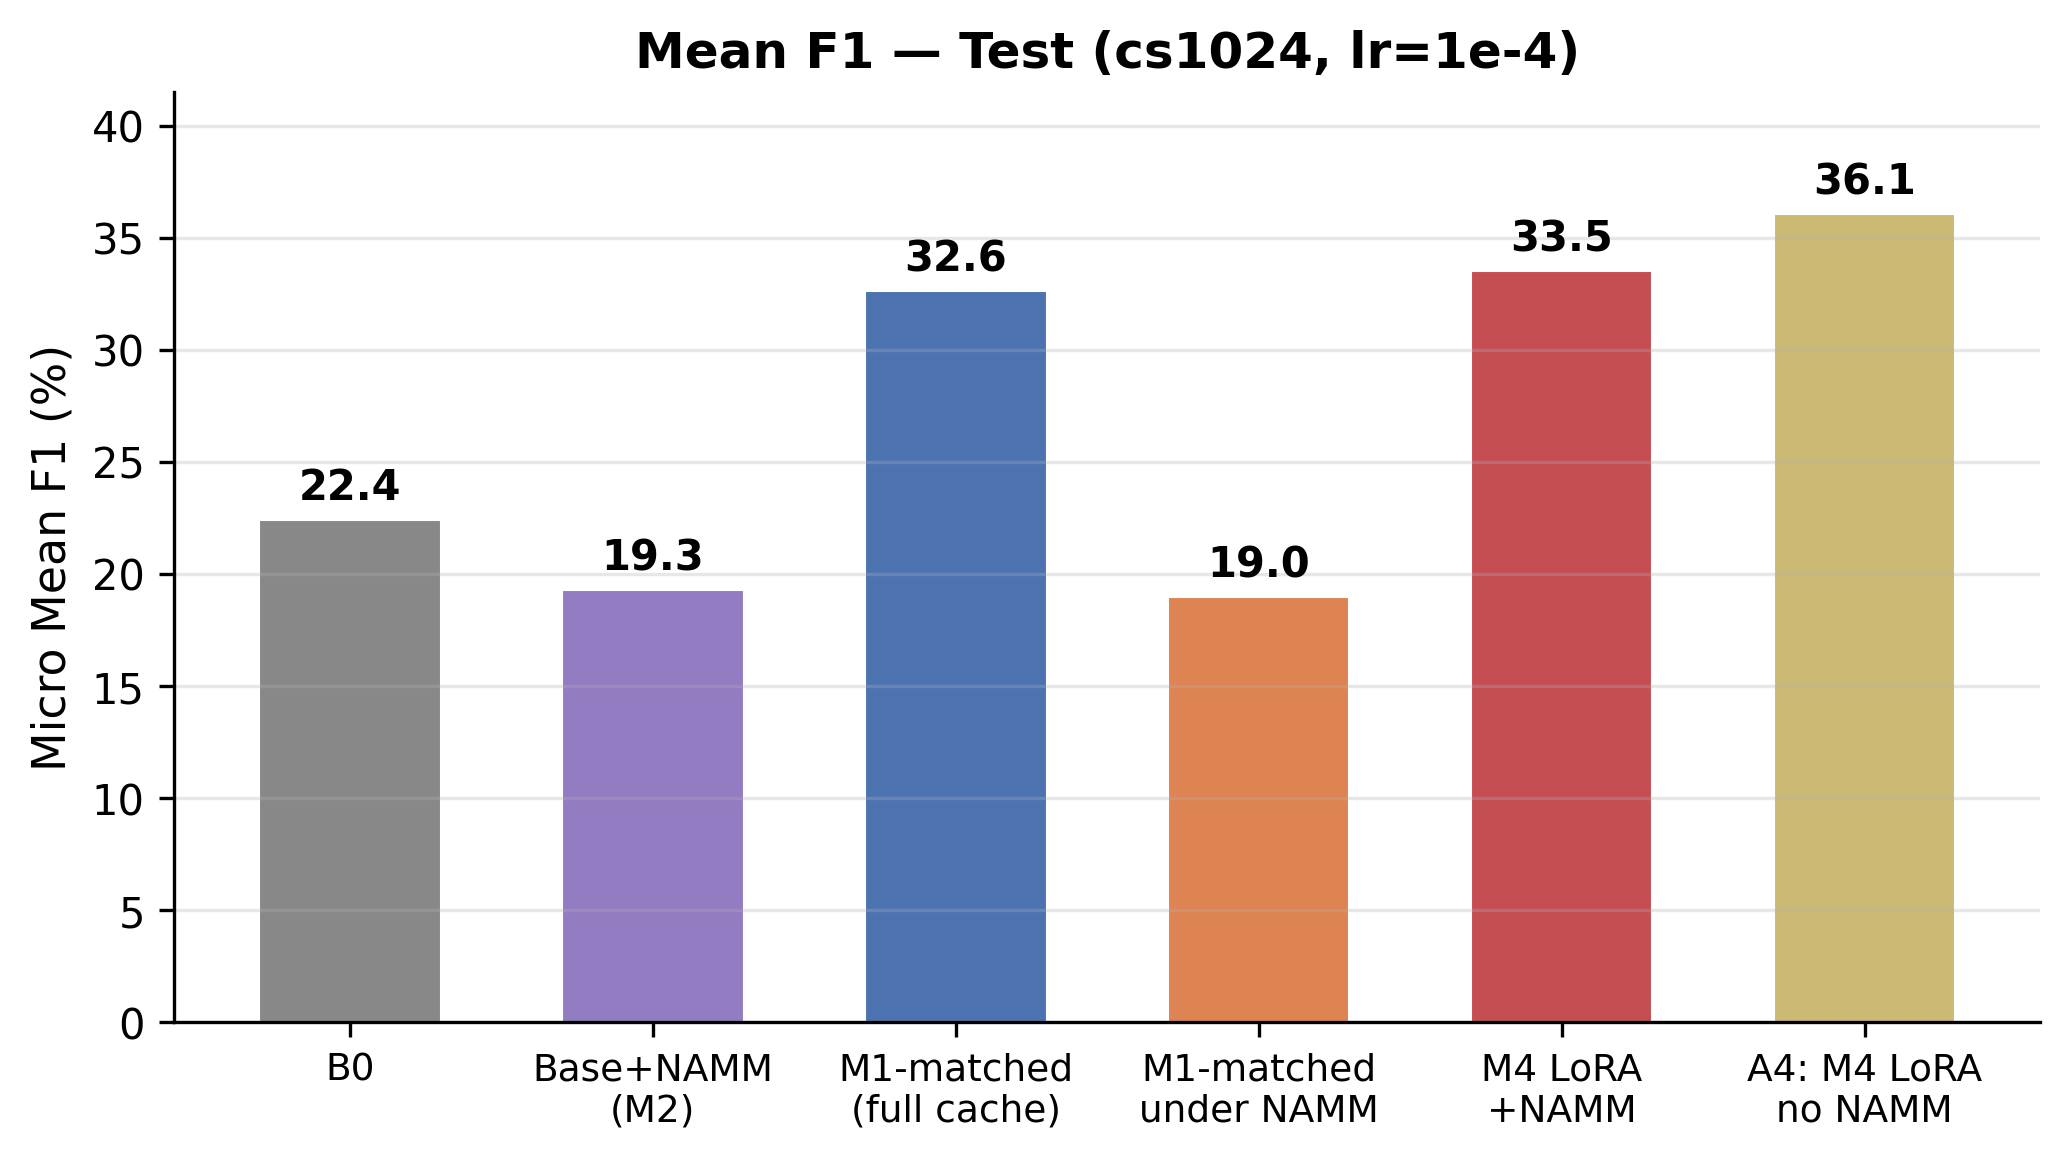
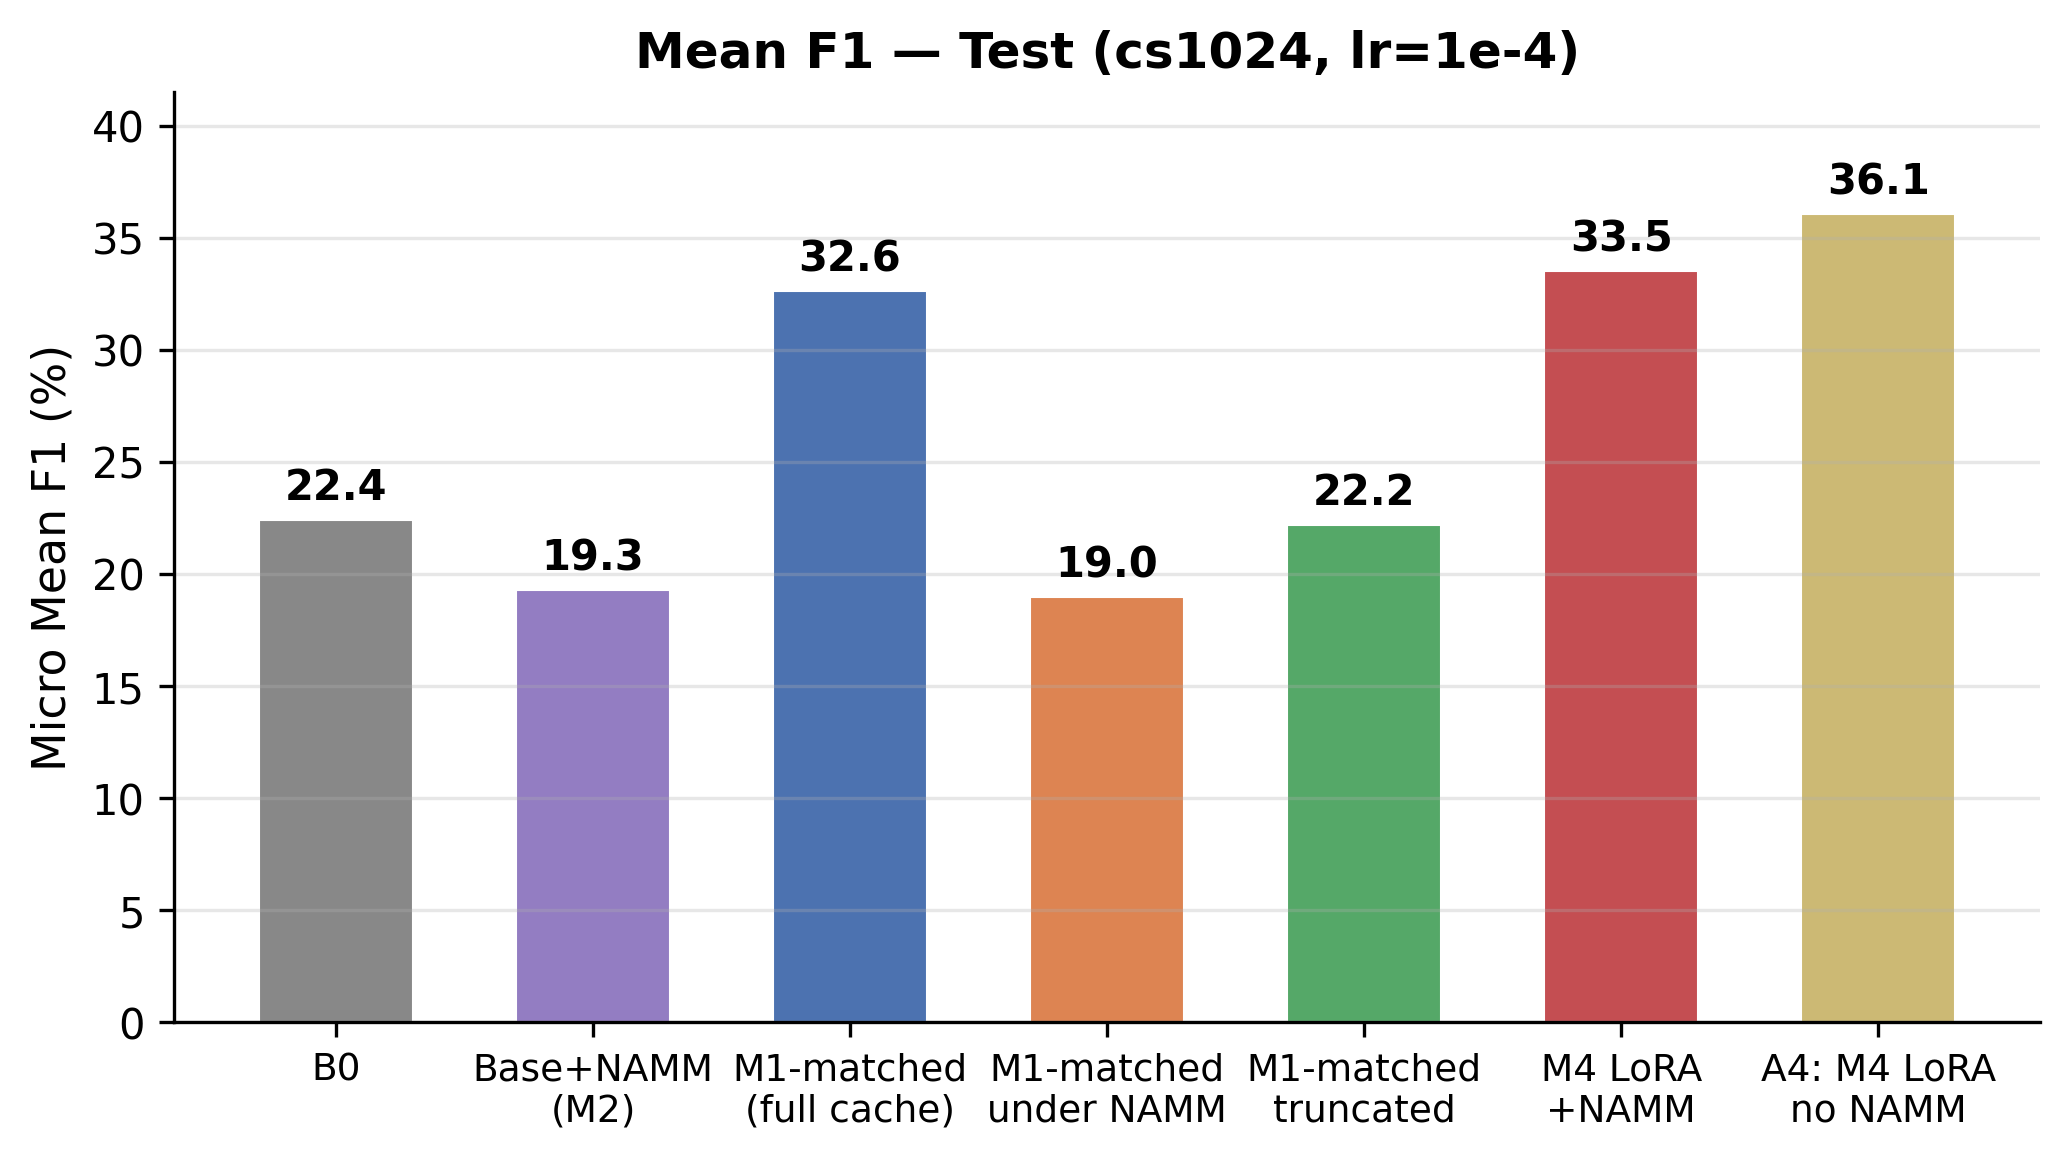
paper plots: add M1-matched truncated condition to Section A Part A

Changed region(s): [[0.2164, 0.1242, 0.9585, 0.994], [0.1237, 0.4038, 0.2164, 0.9008], [0.1546, 0.9008, 0.1855, 0.9318]]

diff --git a/analysis_out/SECTION A/PART A/plot_main_results.py b/analysis_out/SECTION A/PART A/plot_main_results.py
@@ -31,6 +31,7 @@ COND_FILES = {
     "Base+NAMM\n(M2)": "m2_base_namm_cs1024.json",
     "M1-matched\n(full cache)": "m1_matched_full_cache.json",
     "M1-matched\nunder NAMM": "m1_matched_under_namm_cs1024.json",
+    "M1-matched\ntruncated": "m1_matched_trunc1024.json",
     "M4 LoRA\n+NAMM": "m4_lora_namm_cs1024.json",
     "A4: M4 LoRA\nno NAMM": "a4_m4_lora_no_namm.json",
 }
@@ -42,6 +43,7 @@ COLORS = {
     "Base+NAMM\n(M2)": "#937DC2",
     "M1-matched\n(full cache)": "#4C72B0",
     "M1-matched\nunder NAMM": "#DD8452",
+    "M1-matched\ntruncated": "#55A868",
     "M4 LoRA\n+NAMM": "#C44E52",
     "A4: M4 LoRA\nno NAMM": "#CCB974",
 }
